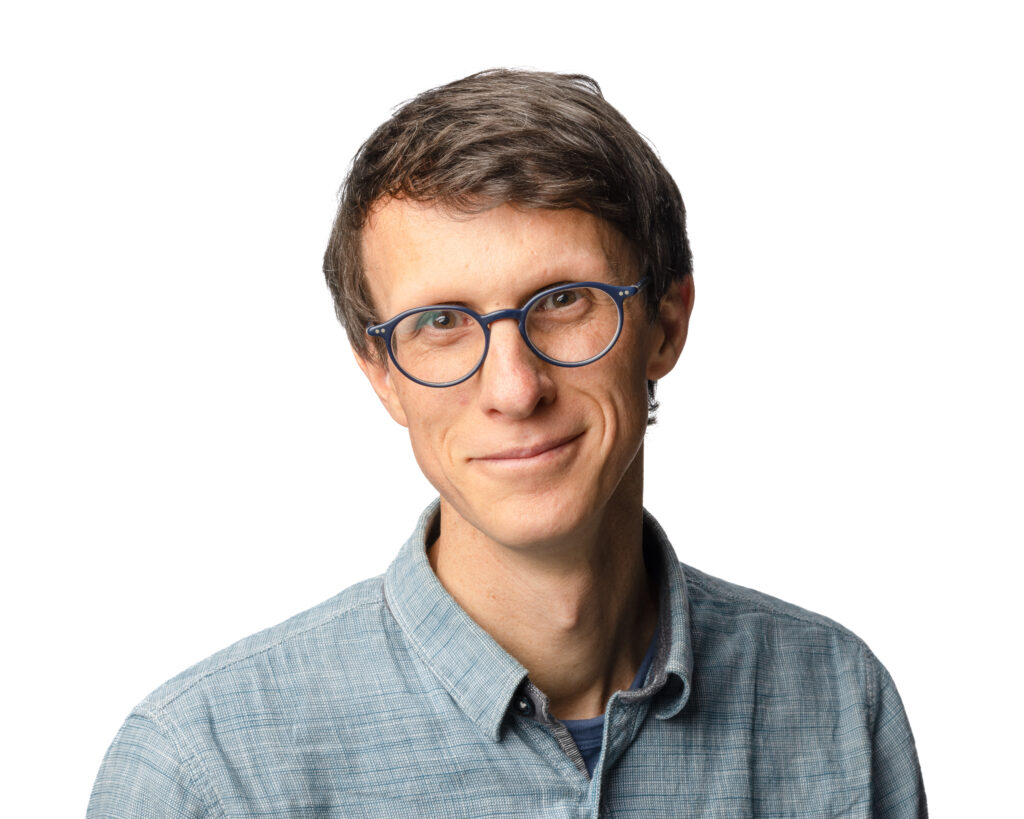
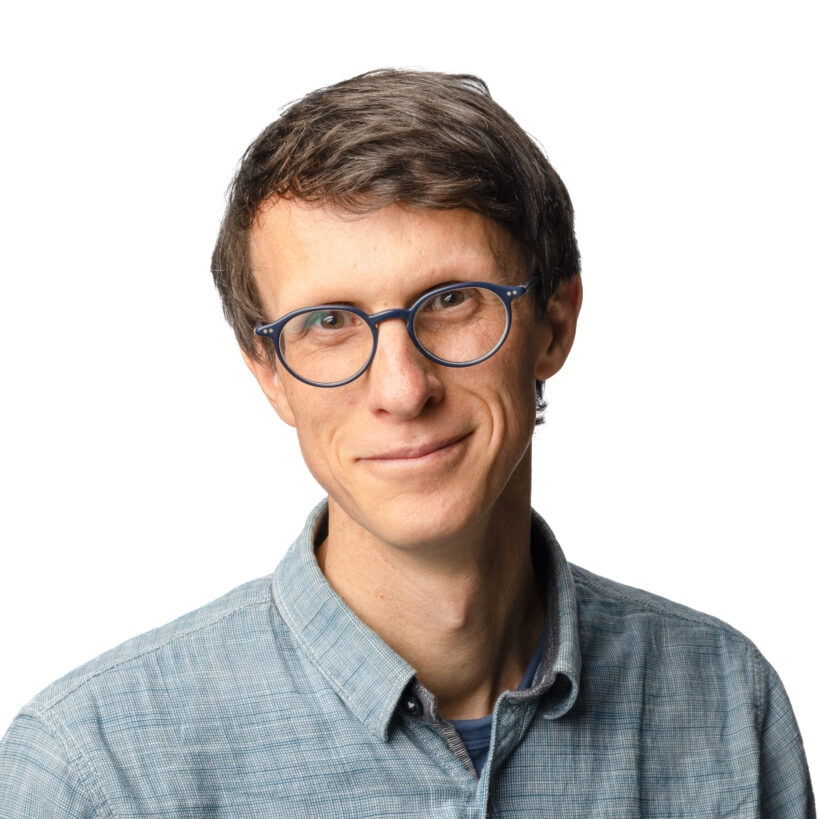
add Kevin/Sabine, add group photos

Changed region(s): [[0.0, 0.0611, 1.0, 1.0]]

diff --git a/_sass/_base.scss b/_sass/_base.scss
@@ -220,7 +220,7 @@ ul.task-list input[type="checkbox"] {
 
 @media (min-width: 576px) {
   .profile {
-    width: 30%;
+    width: 50%;
 
     .address {
       p {

diff --git a/_projects/brian_clarke.md b/_projects/brian_clarke.md
@@ -1,83 +1,9 @@
 ---
 layout: page
 title: Brian Clarke
-<!-- description: Integration of variant annotations using deep set networks for rare variant modeling -->
+description: Group Leader
 img: assets/img/brian_clarke.jpg
-<!-- importance: 0 -->
-category: PI
-<!-- redirect: https://steglelab.org/brian-clarke/ -->
+importance: 0
+category: ""
+redirect: https://www.linkedin.com/in/brian-clarke-04971b74/
 ---
-
-<~--
-Every project has a beautiful feature showcase page.
-It's easy to include images in a flexible 3-column grid format.
-Make your photos 1/3, 2/3, or full width.
-
-To give your project a background in the portfolio page, just add the img tag to the front matter like so:
-
-    ---
-    layout: page
-    title: project
-    description: a project with a background image
-    img: /assets/img/12.jpg
-    ---
-
-<div class="row">
-    <div class="col-sm mt-3 mt-md-0">
-        {% include figure.liquid loading="eager" path="assets/img/1.jpg" title="example image" class="img-fluid rounded z-depth-1" %}
-    </div>
-    <div class="col-sm mt-3 mt-md-0">
-        {% include figure.liquid loading="eager" path="assets/img/3.jpg" title="example image" class="img-fluid rounded z-depth-1" %}
-    </div>
-    <div class="col-sm mt-3 mt-md-0">
-        {% include figure.liquid loading="eager" path="assets/img/5.jpg" title="example image" class="img-fluid rounded z-depth-1" %}
-    </div>
-</div>
-<div class="caption">
-    Caption photos easily. On the left, a road goes through a tunnel. Middle, leaves artistically fall in a hipster photoshoot. Right, in another hipster photoshoot, a lumberjack grasps a handful of pine needles.
-</div>
-<div class="row">
-    <div class="col-sm mt-3 mt-md-0">
-        {% include figure.liquid loading="eager" path="assets/img/5.jpg" title="example image" class="img-fluid rounded z-depth-1" %}
-    </div>
-</div>
-<div class="caption">
-    This image can also have a caption. It's like magic.
-</div>
-
-You can also put regular text between your rows of images.
-Say you wanted to write a little bit about your project before you posted the rest of the images.
-You describe how you toiled, sweated, _bled_ for your project, and then... you reveal its glory in the next row of images.
-
-<div class="row justify-content-sm-center">
-    <div class="col-sm-8 mt-3 mt-md-0">
-        {% include figure.liquid path="assets/img/6.jpg" title="example image" class="img-fluid rounded z-depth-1" %}
-    </div>
-    <div class="col-sm-4 mt-3 mt-md-0">
-        {% include figure.liquid path="assets/img/11.jpg" title="example image" class="img-fluid rounded z-depth-1" %}
-    </div>
-</div>
-<div class="caption">
-    You can also have artistically styled 2/3 + 1/3 images, like these.
-</div>
-
-The code is simple.
-Just wrap your images with `<div class="col-sm">` and place them inside `<div class="row">` (read more about the <a href="https://getbootstrap.com/docs/4.4/layout/grid/">Bootstrap Grid</a> system).
-To make images responsive, add `img-fluid` class to each; for rounded corners and shadows use `rounded` and `z-depth-1` classes.
-Here's the code for the last row of images above:
-
-{% raw %}
-
-```html
-<div class="row justify-content-sm-center">
-  <div class="col-sm-8 mt-3 mt-md-0">
-    {% include figure.liquid path="assets/img/6.jpg" title="example image" class="img-fluid rounded z-depth-1" %}
-  </div>
-  <div class="col-sm-4 mt-3 mt-md-0">
-    {% include figure.liquid path="assets/img/11.jpg" title="example image" class="img-fluid rounded z-depth-1" %}
-  </div>
-</div>
-```
-
-{% endraw %}
--->

diff --git a/_pages/about.md b/_pages/about.md
@@ -2,7 +2,7 @@
 layout: about
 title: About
 permalink: /
-subtitle: 'Mechanistic AI in Genomics Group @ <a href="https://www.dkfz.de">German Cancer Research Center (DKFZ)</a>'
+subtitle: 'Mechanistic AI in Genomics Group @ <a href="https://www.dkfz.de">DKFZ (German Cancer Research Center))</a>'
 
 selected_papers: false # includes a list of papers marked as "selected={true}"
 social: true # includes social icons at the bottom of the page
@@ -18,17 +18,19 @@ latest_posts:
   limit: 3 # leave blank to include all the blog posts
   
 profile:
-  align: right
-  image: dkfz_hauptgebaeude.jpg
+  align: center
+  image: group_jul_2026_2.jpg
   more_info: ""
 ---
 
+<!-- <img src="{{ "/assets/img/group_jul_2026.jpg" | relative_url }}""> -->
+
 We are a computational genomics group particularly interested in the application of AI and ML in a way that respects biological mechanisms and is both mathematically and statistically sound. We work with large-scale cohort data (population genetics, electronic health records) and cellular assays (single-cell omics and CRISPR perturbation assays).
 
-Our lab's goal is to gain clear biological insights from this complex, noisy and incomplete data. That's why our scientific motto is:
+Our group's goal is to gain clear biological insights from this complex, noisy and incomplete data. That's why our scientific motto is:
 
 _Train smarter models, not just larger ones._
 
 To do that, our team draws on our diverse backgrounds to analyze and model data, exploiting principles from biology, mathematics, statistics, and computational science.
 
-We emphasize scientific rigor and excellence, but just as importantly a positive and nurturing team spirit. For us, that means kindness and mutual respect. It also means an open, collaborative attitude both within our lab and towards our fellow scientists in other groups.
+We emphasize scientific rigor and excellence, but just as importantly a positive and nurturing team spirit. For us, that means kindness and mutual respect. It also means an open, collaborative attitude both within our group and towards our fellow scientists in other groups.

diff --git a/_pages/open_positions.md b/_pages/open_positions.md
@@ -7,6 +7,13 @@ nav: true
 nav_order: 6
 ---
 
+{% capture sizes %}(max-width: 20px){% endcapture %}
+<div class="row justify-content-sm-center">
+<div class="col-sm-7">
+  {% include figure.liquid loading="eager" path="assets/img/group_jul_2026_3.jpg" title="Group photo, July 2026" class="img-fluid rounded z-depth-1" sizes="50vw" %}
+</div>
+</div>
+
 # Open positions
 
 Recruiting for PhD positions is done through the International PhD Programs of [DKFZ](https://www.dkfz.de/en/career/international-phd-program) and [EMBL](https://www.embl.org/about/info/embl-international-phd-programme/).

diff --git a/_pages/team.md b/_pages/team.md
@@ -5,7 +5,7 @@ permalink: /team/
 <!-- description: A growing collection of your cool projects. -->
 nav: true
 nav_order: 3
-display_categories: [PI, Postdocs, PhD students]
+display_categories: ["", Postdocs, PhD students]
 horizontal: false
 ---
 